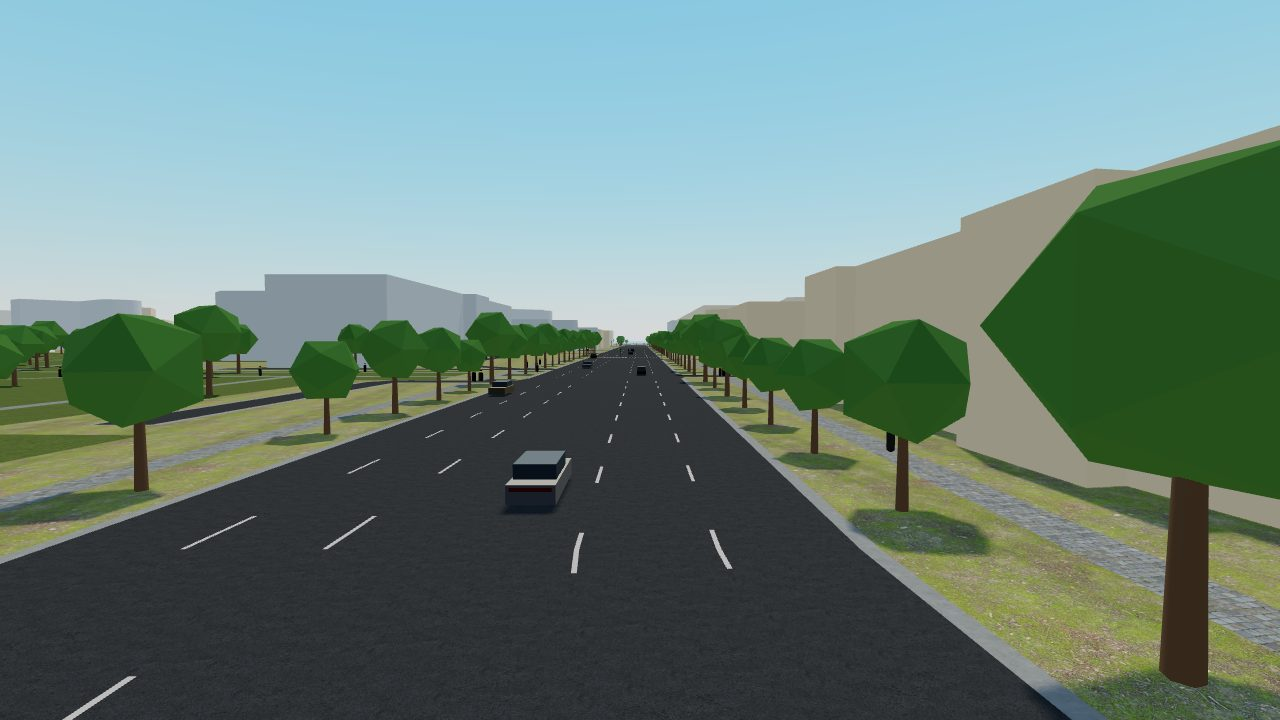
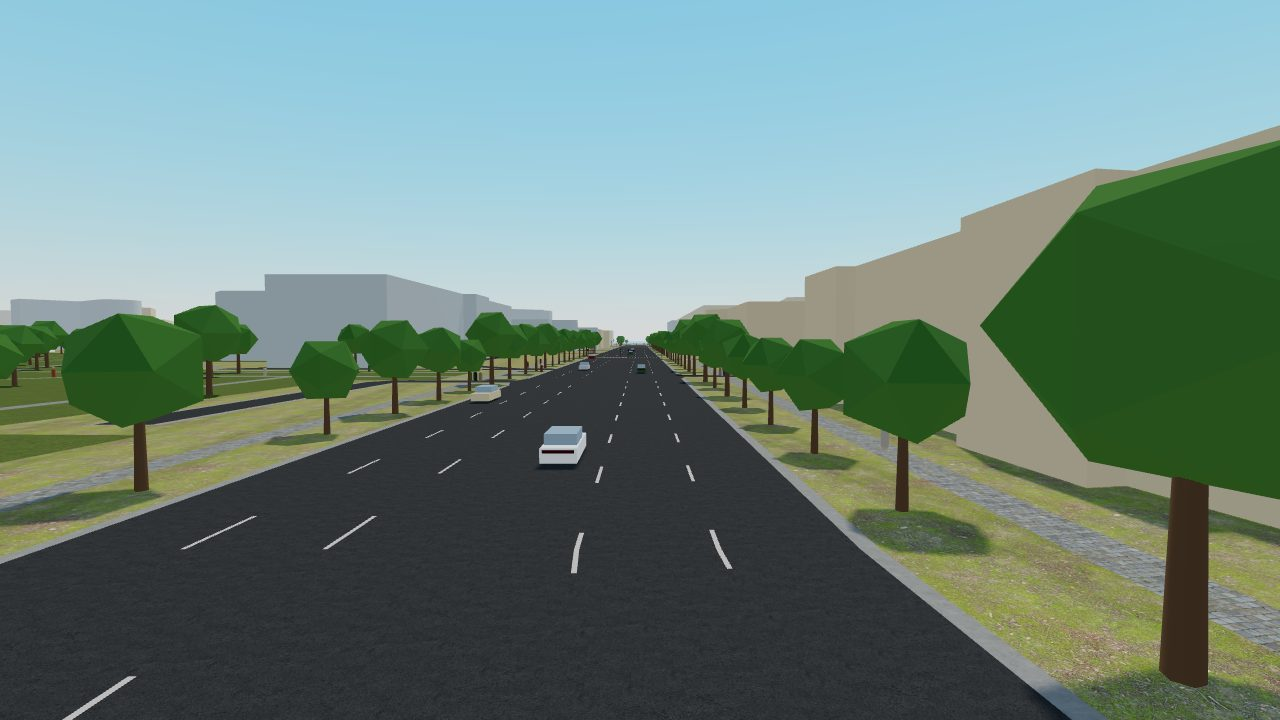
fix(render): sky ambient on every lit material, low stays M3
Medium and high swap every Lambert material for a matte Standard one
so all lit objects take the sky ambient. Low builds no PMREM, keeps
Lambert and uses a per-preset hemisphere strength in its place. The
env sky reuses the visible sky's geometry and material, and lastFrame
is filled field by field. Perf README records the low budget ruling.

diff --git a/src/render/litMaterials.test.ts b/src/render/litMaterials.test.ts
@@ -1,0 +1,78 @@
+import * as THREE from 'three';
+import { describe, expect, it } from 'vitest';
+import { pedView } from '../peds/pedView';
+import { trafficView } from '../traffic/trafficView';
+import { createCarModel } from '../vehicle/carModel';
+import { buildWorld } from '../world/buildWorld';
+import { createEnvironment } from '../world/environment';
+import { createGroundMaterials } from '../world/groundMaterials';
+import { testDistrict } from '../world/testDistrict';
+import { useSkyAmbient } from './litMaterials';
+import { QUALITY, type Quality } from './quality';
+
+const stubLoader = { load: () => new THREE.Texture() } as unknown as THREE.TextureLoader;
+const fakeEnvMaps = { fromScene: () => new THREE.WebGLRenderTarget(1, 1), dispose: () => {} };
+
+/** Assembles the scene the way main.ts does. */
+function gameScene(q: Quality) {
+  const s = QUALITY[q];
+  const scene = new THREE.Scene();
+  const camera = new THREE.PerspectiveCamera();
+  const renderer = { toneMappingExposure: 1 } as unknown as THREE.WebGLRenderer;
+  const mats = createGroundMaterials(s, stubLoader);
+  const env = createEnvironment(scene, camera, renderer, s, 'noon', mats.ground, s.skyAmbient ? fakeEnvMaps : null);
+  buildWorld(scene, testDistrict(), mats);
+  trafficView(scene, 2);
+  pedView(scene, 2);
+  const car = createCarModel().root;
+  scene.add(car);
+  if (s.skyAmbient) useSkyAmbient(scene);
+  env.setupScene(scene);
+  const materials = new Set<THREE.Material>();
+  scene.traverse(o => {
+    const m = (o as THREE.Mesh).material;
+    if (m) for (const x of Array.isArray(m) ? m : [m]) materials.add(x);
+  });
+  return { scene, car, materials };
+}
+
+const owned = (car: THREE.Object3D) => {
+  const out = new Set<THREE.Material>();
+  car.traverse(o => {
+    const m = (o as THREE.Mesh).material as THREE.Material | undefined;
+    if (m) out.add(m);
+  });
+  return out;
+};
+
+describe('lit materials per preset', () => {
+  it('low keeps the world on Lambert with no sky ambient, as M3 did', () => {
+    const { scene, car, materials } = gameScene('low');
+    const carMats = owned(car);
+    expect(scene.environment).toBeNull();
+    for (const m of materials) {
+      if (carMats.has(m)) continue;
+      expect((m as THREE.MeshStandardMaterial).isMeshStandardMaterial ?? false).toBe(false);
+    }
+  });
+
+  it.each(['medium', 'high'] as Quality[])('%s lights every lit material from the sky', q => {
+    const { scene, materials } = gameScene(q);
+    expect(scene.environment).not.toBeNull();
+    for (const m of materials) expect((m as THREE.MeshLambertMaterial).isMeshLambertMaterial ?? false).toBe(false);
+  });
+
+  it('keeps colour, flat shading and sharing when converting', () => {
+    const shared = new THREE.MeshLambertMaterial({ color: 0x4f7d34, flatShading: true });
+    const root = new THREE.Group();
+    root.add(new THREE.Mesh(new THREE.BoxGeometry(), shared), new THREE.Mesh(new THREE.BoxGeometry(), shared));
+    useSkyAmbient(root);
+    const [a, b] = root.children.map(c => (c as THREE.Mesh).material as THREE.MeshStandardMaterial);
+    expect(a).toBe(b);
+    expect(a.isMeshStandardMaterial).toBe(true);
+    expect(a.color.getHex()).toBe(0x4f7d34);
+    expect(a.flatShading).toBe(true);
+    expect(a.roughness).toBe(1);
+    expect(a.metalness).toBe(0);
+  });
+});

diff --git a/src/main.ts b/src/main.ts
@@ -26,6 +26,7 @@ import { trafficView } from './traffic/trafficView';
 import { newCabin, stepCabin } from './vehicle/cabin';
 import { InputReader } from './vehicle/input';
 import { Vehicle } from './vehicle/vehicle';
+import { useSkyAmbient } from './render/litMaterials';
 import { createProbe } from './render/probe';
 import { loadQuality, QUALITY, saveQuality, type Quality } from './render/quality';
 import { createGroundMaterials } from './world/groundMaterials';
@@ -76,7 +77,7 @@ const frameStats = new FrameStats();
 const scene = new THREE.Scene();
 const camera = new THREE.PerspectiveCamera(65, innerWidth / innerHeight, 0.1, 3000);
 const groundMats = createGroundMaterials(quality);
-const env = createEnvironment(scene, camera, renderer, quality, choice.timeOfDay, groundMats.ground, new THREE.PMREMGenerator(renderer));
+const env = createEnvironment(scene, camera, renderer, quality, choice.timeOfDay, groundMats.ground, quality.skyAmbient ? new THREE.PMREMGenerator(renderer) : null);
 const { signalLamps } = buildWorld(scene, district, groundMats);
 
 const credit = document.createElement('div');
@@ -102,6 +103,7 @@ const events = new EventBus();
 const eventQueue = new RAPIER.EventQueue(true);
 const rig = new CameraRig(camera, renderer.domElement);
 const mirrors = createMirrors(renderer, scene, car.object, quality);
+if (quality.skyAmbient) useSkyAmbient(scene);
 env.setupScene(scene);
 
 const held = new Set<string>(), pressed = new Set<string>();
@@ -323,7 +325,10 @@ renderer.setAnimationLoop(() => {
   mirrors.overlay(rig.mode);
   gpuTimer?.end();
   const renderMs = performance.now() - renderStart;
-  Object.assign(lastFrame, { renderMs, steps: r.steps, mainCalls, mainTris });
+  lastFrame.renderMs = renderMs;
+  lastFrame.steps = r.steps;
+  lastFrame.mainCalls = mainCalls;
+  lastFrame.mainTris = mainTris;
 
   const fwd = new THREE.Vector3(0, 0, 1).applyQuaternion(car.object.quaternion);
   minimap.draw(p.x, p.z, Math.atan2(fwd.x, fwd.z));

diff --git a/src/render/timeOfDay.ts b/src/render/timeOfDay.ts
@@ -7,6 +7,8 @@ export interface LightPreset {
   skyColor: number;
   groundColor: number;
   hemiIntensity: number;
+  /** Hemisphere intensity on presets without sky ambient (low), where it is the only fill light. */
+  hemiWithoutSky: number;
   fogColor: number;
   fogNear: number;
   fogFar: number;
@@ -30,6 +32,7 @@ export const TIMES_OF_DAY: Record<TimeOfDay, LightPreset> = {
     skyColor: 0xa9c8ea,
     groundColor: 0x8a7f70,
     hemiIntensity: 0.5,
+    hemiWithoutSky: 4,
     fogColor: 0xcfdbe8,
     fogNear: 120,
     fogFar: 650,
@@ -45,9 +48,10 @@ export const TIMES_OF_DAY: Record<TimeOfDay, LightPreset> = {
     utc: '2026-05-15T08:00:00Z',
     sunColor: 0xfff4e0,
     sunIntensity: 2.8,
-    skyColor: 0x9cc4f0,
-    groundColor: 0x9a9082,
+    skyColor: 0xd6e6f5,
+    groundColor: 0xa08c6c,
     hemiIntensity: 0.5,
+    hemiWithoutSky: 4,
     fogColor: 0xb6d1e6,
     fogNear: 300,
     fogFar: 1400,
@@ -66,6 +70,7 @@ export const TIMES_OF_DAY: Record<TimeOfDay, LightPreset> = {
     skyColor: 0xd8b89a,
     groundColor: 0x8a6a50,
     hemiIntensity: 1.5,
+    hemiWithoutSky: 3.5,
     fogColor: 0xe6b48c,
     fogNear: 90,
     fogFar: 500,

diff --git a/src/world/environment.test.ts b/src/world/environment.test.ts
@@ -149,4 +149,18 @@ describe('createEnvironment', () => {
     expect(mat.uniforms.saturation.value).toBe(TIMES_OF_DAY.evening.skySaturation);
     expect(mat.uniforms.gain.value).toBe(TIMES_OF_DAY.evening.skyGain);
   });
+
+  it('uses the no-sky hemisphere intensity when there is no sky ambient', () => {
+    const scene = new THREE.Scene();
+    const renderer = { toneMappingExposure: 1 } as unknown as THREE.WebGLRenderer;
+    const env = createEnvironment(scene, new THREE.PerspectiveCamera(), renderer, QUALITY.low, 'noon', new THREE.MeshLambertMaterial());
+    const hemi = () => scene.children.find((o): o is THREE.HemisphereLight => (o as THREE.HemisphereLight).isHemisphereLight)!;
+    expect(hemi().intensity).toBe(TIMES_OF_DAY.noon.hemiWithoutSky);
+    env.setTimeOfDay('evening');
+    expect(hemi().intensity).toBe(TIMES_OF_DAY.evening.hemiWithoutSky);
+    expect(scene.environment).toBeNull();
+    const lit = setup();
+    const litHemi = lit.scene.children.find((o): o is THREE.HemisphereLight => (o as THREE.HemisphereLight).isHemisphereLight)!;
+    expect(litHemi.intensity).toBe(TIMES_OF_DAY.noon.hemiIntensity);
+  });
 });

diff --git a/src/world/buildWorld.ts b/src/world/buildWorld.ts
@@ -77,8 +77,8 @@ function addTrees(scene: THREE.Scene, d: DistrictData) {
   const trees = treePositions(d, TREE_SEED);
   const trunkGeo = new THREE.CylinderGeometry(0.18, 0.25, 3, 6).translate(0, 1.5, 0);
   const crownGeo = new THREE.IcosahedronGeometry(2.6, 0).translate(0, 5, 0);
-  const trunks = new THREE.InstancedMesh(trunkGeo, new THREE.MeshStandardMaterial({ color: 0x6b5138, roughness: 1 }), trees.length);
-  const crowns = new THREE.InstancedMesh(crownGeo, new THREE.MeshStandardMaterial({ color: 0x4f7d34, roughness: 1, flatShading: true }), trees.length);
+  const trunks = new THREE.InstancedMesh(trunkGeo, lambert(0x6b5138), trees.length);
+  const crowns = new THREE.InstancedMesh(crownGeo, new THREE.MeshLambertMaterial({ color: 0x4f7d34, flatShading: true }), trees.length);
   const m = new THREE.Matrix4(), q = new THREE.Quaternion(), s = new THREE.Vector3(), p = new THREE.Vector3(), up = new THREE.Vector3(0, 1, 0);
   trees.forEach(([x, z], i) => {
     // Scale and rotation derived from position so they're stable between loads.

diff --git a/src/render/litMaterials.ts b/src/render/litMaterials.ts
@@ -1,0 +1,25 @@
+import * as THREE from 'three';
+
+/** Lambert ignores scene.environment, so presets with sky ambient swap every Lambert material for a matte Standard one. */
+export function useSkyAmbient(root: THREE.Object3D): void {
+  const swapped = new Map<THREE.Material, THREE.Material>();
+  const swap = (m: THREE.Material): THREE.Material => {
+    const l = m as THREE.MeshLambertMaterial;
+    if (!l.isMeshLambertMaterial) return m;
+    let s = swapped.get(m);
+    if (!s) {
+      s = new THREE.MeshStandardMaterial({
+        color: l.color, map: l.map, flatShading: l.flatShading, vertexColors: l.vertexColors,
+        side: l.side, transparent: l.transparent, opacity: l.opacity, roughness: 1, metalness: 0,
+      });
+      swapped.set(m, s);
+      m.dispose();
+    }
+    return s;
+  };
+  root.traverse(o => {
+    const mesh = o as THREE.Mesh;
+    if (!mesh.material) return;
+    mesh.material = Array.isArray(mesh.material) ? mesh.material.map(swap) : swap(mesh.material);
+  });
+}

diff --git a/src/world/environment.ts b/src/world/environment.ts
@@ -70,8 +70,7 @@ export function createEnvironment(
   skyU.gain = { value: 1 };
   skyU.mieDirectionalG.value = 0.8;
 
-  const envSky = new Sky();
-  envSky.material = sky.material;
+  const envSky = new THREE.Mesh(sky.geometry, sky.material);
   envSky.scale.setScalar(ENV_SKY_SIZE);
   const envScene = new THREE.Scene();
   envScene.add(envSky);
@@ -175,7 +174,7 @@ export function createEnvironment(
     sunIntensity = p.sunIntensity;
     hemi.color.setHex(p.skyColor);
     hemi.groundColor.setHex(p.groundColor);
-    hemi.intensity = p.hemiIntensity;
+    hemi.intensity = envMaps ? p.hemiIntensity : p.hemiWithoutSky;
     fog.color.setHex(p.fogColor);
     fog.near = p.fogNear;
     fog.far = p.fogFar;
@@ -253,7 +252,6 @@ export function createEnvironment(
       envTarget = null;
       envMaps?.dispose();
       scene.environment = null;
-      envSky.geometry.dispose();
       sky.geometry.dispose();
       (sky.material as THREE.Material).dispose();
       ground.geometry.dispose();

diff --git a/src/render/quality.ts b/src/render/quality.ts
@@ -9,6 +9,8 @@ export interface QualitySettings {
   mirrorSize: [number, number];
   mirrorEvery: 1 | 2 | 3;
   groundTextures: boolean;
+  /** Image-based ambient light from the sky on every lit material; low stays on M3's Lambert and hemisphere. */
+  skyAmbient: boolean;
 }
 
 export const QUALITY: Record<Quality, QualitySettings> = {
@@ -21,6 +23,7 @@ export const QUALITY: Record<Quality, QualitySettings> = {
     mirrorSize: [128, 64],
     mirrorEvery: 3,
     groundTextures: false,
+    skyAmbient: false,
   },
   medium: {
     pixelRatioCap: 1.5,
@@ -31,6 +34,7 @@ export const QUALITY: Record<Quality, QualitySettings> = {
     mirrorSize: [256, 128],
     mirrorEvery: 2,
     groundTextures: true,
+    skyAmbient: true,
   },
   high: {
     pixelRatioCap: 2,
@@ -41,6 +45,7 @@ export const QUALITY: Record<Quality, QualitySettings> = {
     mirrorSize: [256, 128],
     mirrorEvery: 2,
     groundTextures: true,
+    skyAmbient: true,
   },
 };
 

diff --git a/src/world/buildings.ts b/src/world/buildings.ts
@@ -21,7 +21,7 @@ export function addBuildings(scene: THREE.Scene, buildings: Building[]): void {
     byColour[hash(b.id) % PALETTE.length].push(g);
   }
   byColour.forEach((geoms, i) => {
-    const mesh = addMerged(scene, geoms, new THREE.MeshStandardMaterial({ color: PALETTE[i], roughness: 1, metalness: 0 }));
+    const mesh = addMerged(scene, geoms, new THREE.MeshLambertMaterial({ color: PALETTE[i] }));
     if (mesh) mesh.castShadow = true;
   });
 }

diff --git a/docs/perf/README.md b/docs/perf/README.md
@@ -121,7 +121,7 @@ All times in ms. Calls and triangles did not change at all within a view (p50 eq
 Result:
 
 - High passes on every axis: worst gpu p95 5.4 ms, render cpu p95 1.8 ms (whole loop p95 under 3 ms), 84 calls, 703k triangles.
-- Low passes render cpu (1.5 ms) and triangles (493k), and misses gpu p95 (4.7 to 5.1 ms against 4) and chase-view calls (62 against 60; cockpit is 46).
+- Low, against half of high, passes render cpu (1.5 ms) and triangles (493k) and misses gpu p95 (4.7 to 5.1 ms against 4) and chase-view calls (62 against 60). Under the ruling below it is judged against M3 instead.
 
 The Task 1 baseline (gpu 7.1 / 9.4 ms) and the Task 5 figure (11.2 / 13.7 ms) were taken in the hidden, throttled browser pane. Unthrottled, the same scene measures about half of that, so neither is a reference for the budget.
 
@@ -139,7 +139,9 @@ Low's two misses, diagnosed on low chase at noon:
 | shadow map updates off | 2.0 / 4.0 |
 | mirrors off, shadow updates off, pixel ratio 0.25 | 1.0 / 3.4 |
 
-Mirror cadence does not move p95, and a near-empty frame still has a p95 of 3.4 ms with single-frame spikes to about 4 ms, so the timer has a noise floor on this machine close to low's 4 ms budget. The shadow map update is the one real cost (about 1.4 ms at p95). Low already has 1 cascade at 1024, pixel ratio 1 and mirrors every 3rd frame, so the brief's levers are spent; dropping low's shadows or going to a 512 map would change how low looks, which is a feature cut and is left for a decision. Low's 62 calls are the M3 count (61) plus the M4a sky; getting to 60 needs merging meshes (the player car alone is 15 draw calls), not value tuning.
+Mirror cadence does not move p95, and a near-empty frame still has a p95 of 3.4 ms with single-frame spikes to about 4 ms, so the timer has a noise floor on this machine close to low's 4 ms budget. The shadow map update is the one real cost (about 1.4 ms at p95). Low already has 1 cascade at 1024, pixel ratio 1 and mirrors every 3rd frame, so no tuning is applied. Low's 62 calls are the M3 count (61) plus the M4a sky.
+
+Ruling (controller, 2026-10-24): low is judged against the pre-M4a cost, M3's 61 main-pass calls plus 1 sky call, not against half of high. The timer's noise floor of about 3.4 ms p95 on the M5 makes half of high's 8 ms unmeasurable, and low is meant to look and cost like M3. Against that, low passes on calls (62). M3's own unthrottled GPU time was not measured: `main` has no GPU timer and no presets, so there is no like-for-like low figure to compare with.
 
 ### Download size
 
@@ -171,3 +173,18 @@ Same method as above, low and high, noon and evening, drive shortened to 15 s:
 | low | route-1 drive | 1.6 to 1.7 | 2.2 to 2.3 / 4.9 to 5.0 | 62 | 493k |
 
 High gpu p50 rose about 1 ms (Standard shading and the environment lookup on every building and tree) and stays within 8 ms at p95. Calls and triangles are unchanged. Low rose about 0.3 ms at p50.
+
+### Fix round 2: sky ambient on every lit material, low stays M3 (2026-10-24)
+
+`QualitySettings.skyAmbient` (false on low, true on medium and high) is fixed at page load like ground textures. With it, main builds the PMREM and `useSkyAmbient` (`src/render/litMaterials.ts`) swaps every Lambert material in the scene (buildings, trees, AI cars, pedestrians, signals, signs, water, the player car's tyres and rims) for a matte `MeshStandardMaterial` with the same colour, so all of them take the sky ambient. Without it nothing is swapped, no PMREM is built, and the hemisphere light uses the preset's `hemiWithoutSky` (noon 4, morning 4, evening 3.5), the only fill light low has, as in M3. The player car's paint and glass were Standard already in M3 and stay so on low.
+
+One caveat: the preset is fixed per load, so when the first-visit probe picks low at runtime, that visit keeps medium's materials until the next load.
+
+Perf recheck, DPR 2, unthrottled:
+
+| Preset | gpu p50 / p95 | render cpu p95 | calls | triangles | `scene.environment` |
+|---|---|---|---|---|---|
+| high (noon, evening; chase, cockpit, drive) | 3.9 to 5.2 / 4.9 to 6.5 | 0.7 to 1.7 | 84 chase / 62 cockpit | 703k | set |
+| low (same views) | 1.5 to 2.3 / 3.9 to 5.4 | 1.6 to 1.8 | 62 / 46 | 493k | null |
+
+A first high run read 13 to 27 ms gpu from the noon drive onward while other Chrome windows were busy on the same GPU; an immediate rerun gave the figures above, so that run is discarded.

diff --git a/docs/visuals/m4a/README.md b/docs/visuals/m4a/README.md
@@ -16,16 +16,19 @@ Maps, to compare with real panoramas:
 
 If a link lands with no panorama, the nearest street-level image is a few metres off; drag the pegman onto the same street.
 
-## Brightness check (fix round 1)
+## Brightness check
 
-`python3 tools/visual/luminance.py IMAGE asphalt=250,610,550,710 building=870,250,960,310` prints the mean luma (Rec. 709 weights on 0-255 sRGB) of each region. The asphalt region is the near carriageway, the building region is the shaded west-facing facade on the right of the avenue shot.
+`python3 tools/visual/luminance.py IMAGE car=540,430,582,466 asphalt=250,610,550,710 building=870,250,960,310` prints the mean luma (Rec. 709 weights on 0-255 sRGB) of each region. Car is the white AI car that sits at the same spot in every avenue shot (the sim is seeded), asphalt is the near carriageway, building is the west-facing facade on the right. In M3 the sun came from a fixed south-east point, so that facade is sunlit in the before shot and shaded at the real noon sun after M4a.
 
-| Avenue shot | Near asphalt | Building face |
-|---|---|---|
-| before | 41.9 | 165.2 |
-| after, noon | 48.7 (+16%) | 150.7 (-9%) |
-| after, evening | 24.8 (51% of noon) | 139.2 |
-| after, noon, first M4a take (no sky ambient) | 36.1 | 45.1 |
-| after, evening, first M4a take | 3.1 | 46.7 |
+`avenue-before.jpg` was re-taken in fix round 2 (same framing) so the AI car is in the same place as in the after shots. `avenue-low-noon.jpg` is the low preset.
 
-Targets: noon asphalt and building within 20% of before (33.5 to 50.3, 132 to 198), evening asphalt at least 40% of noon (19.5). All pass.
+| Avenue shot | Car | Near asphalt | Building face |
+|---|---|---|---|
+| before (M3) | 101.7 | 41.9 | 165.2 |
+| low, noon | 137.9 (+36%) | 44.4 (+6%) | 136.1 (-18%) |
+| high, noon | 138.1 (+36%) | 49.5 (+18%) | 152.8 (-8%) |
+| high, evening (fix round 1) | | 24.8 (50% of noon) | 139.2 |
+| high, noon, first M4a take (no sky ambient) | | 36.1 | 45.1 |
+| high, evening, first M4a take | | 3.1 | 46.7 |
+
+Targets: noon asphalt and building within 20% of before (33.5 to 50.3, 132 to 198), evening asphalt at least 40% of noon. All pass. The AI car reads brighter than in M3 on both presets: its top and back now catch more fill light.
